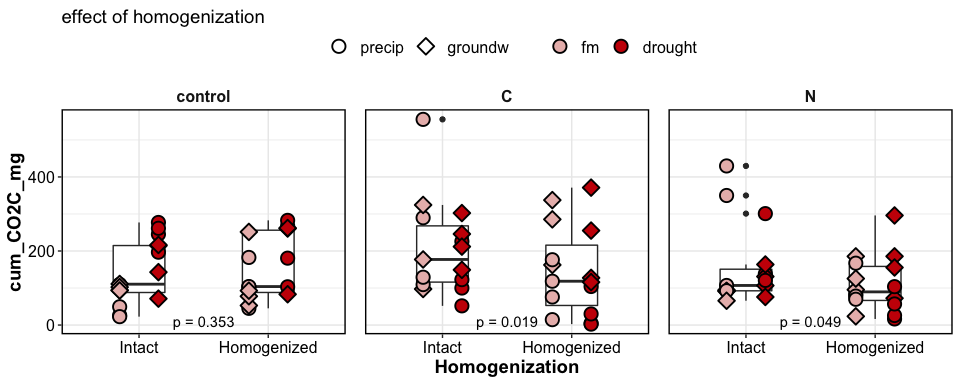
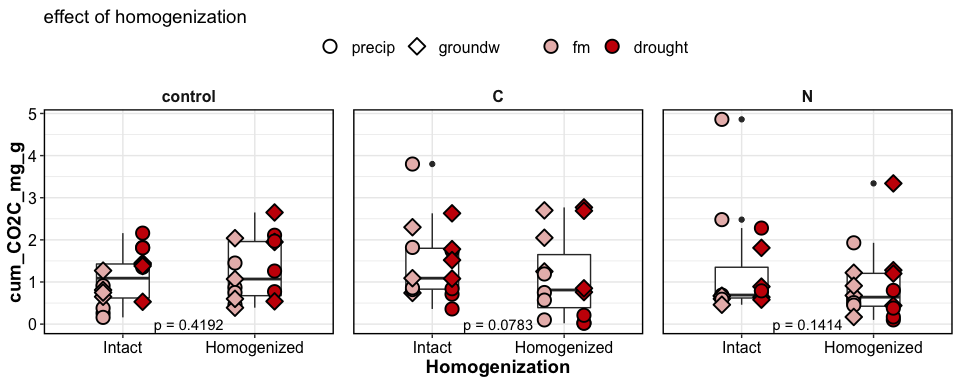
use co2c normalized to soil wt. fix functions for scatter/boxplots.

diff --git a/reports/flux_drake_md_report.md b/reports/flux_drake_md_report.md
@@ -24,16 +24,16 @@ intact cores
 
     #> Anova Table (Type III tests)
     #> 
-    #> Response: log(cum_CO2C_mg)
-    #>                     Sum Sq Df  F value    Pr(>F)    
-    #> (Intercept)         79.287  1 241.6145 < 2.2e-16 ***
-    #> Moisture             3.510  1  10.6970  0.002369 ** 
-    #> Amendments           4.212  2   6.4184  0.004131 ** 
-    #> Wetting              0.119  1   0.3618  0.551283    
-    #> Moisture:Amendments  3.729  2   5.6818  0.007169 ** 
-    #> Moisture:Wetting     0.005  1   0.0152  0.902494    
-    #> Amendments:Wetting   1.895  2   2.8874  0.068706 .  
-    #> Residuals           11.814 36                       
+    #> Response: log(cum_CO2C_mg_g)
+    #>                      Sum Sq Df F value  Pr(>F)  
+    #> (Intercept)          2.4064  1  6.0051 0.01926 *
+    #> Moisture             2.5334  1  6.3219 0.01653 *
+    #> Amendments           3.0693  2  3.8297 0.03105 *
+    #> Wetting              0.1035  1  0.2583 0.61439  
+    #> Moisture:Amendments  2.8120  2  3.5086 0.04054 *
+    #> Moisture:Wetting     0.0073  1  0.0182 0.89347  
+    #> Amendments:Wetting   1.9118  2  2.3854 0.10645  
+    #> Residuals           14.4263 36                  
     #> ---
     #> Signif. codes:  0 '***' 0.001 '**' 0.01 '*' 0.05 '.' 0.1 ' ' 1
 
@@ -41,16 +41,16 @@ homogenized cores
 
     #> Anova Table (Type III tests)
     #> 
-    #> Response: log(cum_CO2C_mg)
-    #>                      Sum Sq Df  F value    Pr(>F)    
-    #> (Intercept)         109.678  1 158.7171 9.264e-15 ***
-    #> Moisture              0.140  1   0.2022  0.655667    
-    #> Amendments            1.197  2   0.8662  0.429114    
-    #> Wetting               0.598  1   0.8655  0.358398    
-    #> Moisture:Amendments   4.970  2   3.5958  0.037692 *  
-    #> Moisture:Wetting      2.431  1   3.5182  0.068825 .  
-    #> Amendments:Wetting    7.521  2   5.4416  0.008613 ** 
-    #> Residuals            24.877 36                       
+    #> Response: log(cum_CO2C_mg_g)
+    #>                      Sum Sq Df F value  Pr(>F)  
+    #> (Intercept)          0.0057  1  0.0072 0.93275  
+    #> Moisture             0.0148  1  0.0188 0.89173  
+    #> Amendments           1.9157  2  1.2163 0.30821  
+    #> Wetting              0.5761  1  0.7316 0.39804  
+    #> Moisture:Amendments  4.1127  2  2.6112 0.08730 .
+    #> Moisture:Wetting     2.8734  1  3.6488 0.06410 .
+    #> Amendments:Wetting   7.7421  2  4.9156 0.01296 *
+    #> Residuals           28.3500 36                  
     #> ---
     #> Signif. codes:  0 '***' 0.001 '**' 0.01 '*' 0.05 '.' 0.1 ' ' 1
 
@@ -99,8 +99,6 @@ For intact cores,
 
 ![](markdown-figs/flux/cum_flux_homo-1.png)<!-- -->
 
-    #> [1] NA
-
     #> $gg_flux_ts
 
 ![](markdown-figs/flux/meanflux_ts-1.png)<!-- -->
@@ -116,16 +114,18 @@ For intact cores,
 
 ## summary table
 
-| Homogenization | Moisture | Wetting |    control     |        C        |       N        |
-| :------------: | :------: | :-----: | :------------: | :-------------: | :------------: |
-|     Intact     |    fm    | precip  |   52 ± 20.16   | 270.95 ± 103.11 | 244.8 ± 85.34  |
-|     Intact     |    fm    | groundw | 100.22 ± 4.12  | 199.62 ± 57.58  |  85.92 ± 6.79  |
-|     Intact     | drought  | precip  | 245.11 ± 17.38 | 125.07 ± 36.68  | 186.55 ± 49.75 |
-|     Intact     | drought  | groundw | 161.18 ± 34.49 | 227.34 ± 32.09  | 119.25 ± 18.59 |
-|  Homogenized   |    fm    | precip  | 108.62 ± 28.23 |  96.28 ± 34.16  | 99.67 ± 22.65  |
-|  Homogenized   |    fm    | groundw | 118.74 ± 45.04 | 261.79 ± 51.91  | 107.47 ± 33.66 |
-|  Homogenized   | drought  | precip  | 208.65 ± 41.69 |  35.29 ± 23.78  | 50.76 ± 19.67  |
-|  Homogenized   | drought  | groundw | 201.98 ± 51.46 | 217.43 ± 60.18  | 177.38 ± 46.22 |
+cumulative CO2-C, mgC/g soil
+
+| Homogenization | Moisture | Wetting |   control   |      C      |      N      |
+| :------------: | :------: | :-----: | :---------: | :---------: | :---------: |
+|     Intact     |    fm    | precip  | 0.43 ± 0.17 | 1.82 ± 0.7  |  2.16 ± 1   |
+|     Intact     |    fm    | groundw | 0.87 ± 0.14 | 1.38 ± 0.41 | 0.6 ± 0.05  |
+|     Intact     | drought  | precip  | 1.79 ± 0.17 | 0.91 ± 0.29 | 1.29 ± 0.43 |
+|     Intact     | drought  | groundw | 1.19 ± 0.22 | 1.75 ± 0.33 | 0.98 ± 0.28 |
+|  Homogenized   |    fm    | precip  | 0.88 ± 0.21 | 0.65 ± 0.23 | 0.87 ± 0.35 |
+|  Homogenized   |    fm    | groundw | 1.02 ± 0.37 |  2 ± 0.42   | 0.74 ± 0.22 |
+|  Homogenized   | drought  | precip  | 1.53 ± 0.31 | 0.27 ± 0.19 | 0.36 ± 0.16 |
+|  Homogenized   | drought  | groundw | 1.71 ± 0.54 | 1.77 ± 0.56 | 1.56 ± 0.62 |
 
 -----
 
@@ -135,7 +135,7 @@ For intact cores,
 
 <summary>click to expand</summary>
 
-Date run: 2020-09-09
+Date run: 2020-09-11
 
     #> R version 4.0.2 (2020-06-22)
     #> Platform: x86_64-apple-darwin17.0 (64-bit)
@@ -158,38 +158,30 @@ Date run: 2020-09-09
     #> [13] ggplot2_3.3.2   tidyverse_1.3.0
     #> 
     #> loaded via a namespace (and not attached):
-    #>  [1] minqa_1.2.4        colorspace_1.4-1   ellipsis_0.3.1    
-    #>  [4] rio_0.5.16         fs_1.5.0           rstudioapi_0.11   
-    #>  [7] farver_2.0.3       soilpalettes_0.1.0 fansi_0.4.1       
-    #> [10] lubridate_1.7.9    xml2_1.3.2         splines_4.0.2     
-    #> [13] knitr_1.29         jsonlite_1.7.0     nloptr_1.2.2.2    
-    #> [16] packrat_0.5.0      broom_0.7.0        cluster_2.1.0     
-    #> [19] dbplyr_1.4.4       shiny_1.5.0        compiler_4.0.2    
-    #> [22] httr_1.4.2         backports_1.1.8    assertthat_0.2.1  
-    #> [25] fastmap_1.0.1      cli_2.0.2          later_1.1.0.1     
-    #> [28] htmltools_0.5.0    prettyunits_1.1.1  tools_4.0.2       
-    #> [31] igraph_1.2.5       gtable_0.3.0       agricolae_1.3-3   
-    #> [34] glue_1.4.1         Rcpp_1.0.5         carData_3.0-4     
-    #> [37] cellranger_1.1.0   vctrs_0.3.2        nlme_3.1-148      
-    #> [40] xfun_0.16          openxlsx_4.1.5     rvest_0.3.6       
-    #> [43] mime_0.9           miniUI_0.1.1.1     lifecycle_0.2.0   
-    #> [46] statmod_1.4.34     MASS_7.3-51.6      scales_1.1.1      
-    #> [49] hms_0.5.3          promises_1.1.1     parallel_4.0.2    
-    #> [52] yaml_2.2.1         curl_4.3           labelled_2.5.0    
-    #> [55] stringi_1.4.6      highr_0.8          klaR_0.6-15       
-    #> [58] AlgDesign_1.2.0    filelock_1.0.2     boot_1.3-25       
-    #> [61] zip_2.1.0          storr_1.2.1        rlang_0.4.7       
-    #> [64] pkgconfig_2.0.3    evaluate_0.14      lattice_0.20-41   
-    #> [67] labeling_0.3       tidyselect_1.1.0   plyr_1.8.6        
-    #> [70] magrittr_1.5       R6_2.4.1           generics_0.0.2    
-    #> [73] base64url_1.4      combinat_0.0-8     txtq_0.2.3        
-    #> [76] DBI_1.1.0          mgcv_1.8-31        pillar_1.4.6      
-    #> [79] haven_2.3.1        foreign_0.8-80     withr_2.2.0       
-    #> [82] abind_1.4-5        modelr_0.1.8       crayon_1.3.4      
-    #> [85] car_3.0-9          questionr_0.7.1    rmarkdown_2.3     
-    #> [88] progress_1.2.2     grid_4.0.2         readxl_1.3.1      
-    #> [91] data.table_1.13.0  blob_1.2.1         reprex_0.3.0      
-    #> [94] digest_0.6.25      xtable_1.8-4       httpuv_1.5.4      
-    #> [97] munsell_0.5.0
+    #>  [1] minqa_1.2.4        colorspace_1.4-1   ellipsis_0.3.1     rio_0.5.16        
+    #>  [5] rsconnect_0.8.16   fs_1.5.0           rstudioapi_0.11    farver_2.0.3      
+    #>  [9] soilpalettes_0.1.0 fansi_0.4.1        lubridate_1.7.9    xml2_1.3.2        
+    #> [13] splines_4.0.2      knitr_1.29         jsonlite_1.7.0     nloptr_1.2.2.2    
+    #> [17] packrat_0.5.0      broom_0.7.0        cluster_2.1.0      dbplyr_1.4.4      
+    #> [21] shiny_1.5.0        compiler_4.0.2     httr_1.4.2         backports_1.1.8   
+    #> [25] assertthat_0.2.1   fastmap_1.0.1      cli_2.0.2          later_1.1.0.1     
+    #> [29] htmltools_0.5.0    prettyunits_1.1.1  tools_4.0.2        igraph_1.2.5      
+    #> [33] gtable_0.3.0       agricolae_1.3-3    glue_1.4.1         Rcpp_1.0.5        
+    #> [37] carData_3.0-4      cellranger_1.1.0   vctrs_0.3.2        nlme_3.1-148      
+    #> [41] xfun_0.16          openxlsx_4.1.5     rvest_0.3.6        mime_0.9          
+    #> [45] miniUI_0.1.1.1     lifecycle_0.2.0    statmod_1.4.34     MASS_7.3-51.6     
+    #> [49] scales_1.1.1       hms_0.5.3          promises_1.1.1     parallel_4.0.2    
+    #> [53] yaml_2.2.1         curl_4.3           labelled_2.5.0     stringi_1.4.6     
+    #> [57] highr_0.8          klaR_0.6-15        AlgDesign_1.2.0    filelock_1.0.2    
+    #> [61] boot_1.3-25        zip_2.1.0          storr_1.2.1        rlang_0.4.7       
+    #> [65] pkgconfig_2.0.3    evaluate_0.14      lattice_0.20-41    labeling_0.3      
+    #> [69] tidyselect_1.1.0   plyr_1.8.6         magrittr_1.5       R6_2.4.1          
+    #> [73] generics_0.0.2     base64url_1.4      combinat_0.0-8     txtq_0.2.3        
+    #> [77] DBI_1.1.0          pillar_1.4.6       haven_2.3.1        foreign_0.8-80    
+    #> [81] withr_2.2.0        mgcv_1.8-31        abind_1.4-5        modelr_0.1.8      
+    #> [85] crayon_1.3.4       car_3.0-9          questionr_0.7.1    rmarkdown_2.3     
+    #> [89] progress_1.2.2     grid_4.0.2         readxl_1.3.1       data.table_1.13.0 
+    #> [93] blob_1.2.1         reprex_0.3.0       digest_0.6.25      xtable_1.8-4      
+    #> [97] httpuv_1.5.4       munsell_0.5.0
 
 </details>
